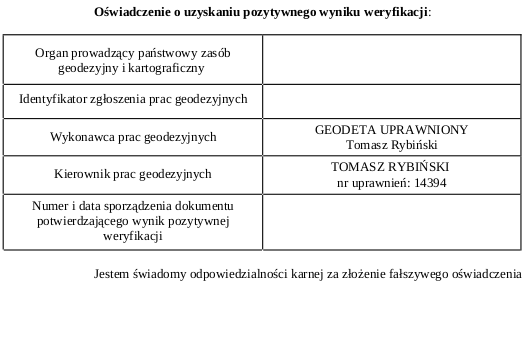
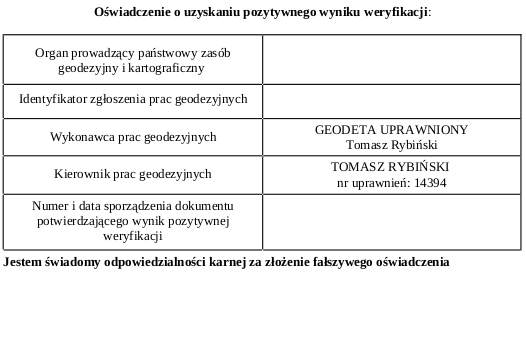
Update 5.1

Changed region(s): [[0.0, 0.0865, 1.0, 0.8069], [0.1832, 0.0, 0.8244, 0.0576]]

diff --git a/src/view/InsertIntoPDFView.js b/src/view/InsertIntoPDFView.js
@@ -15,11 +15,11 @@ function InsertIntoPDFView() {
 
   const [organProwadzacy, setOrganProwadzacy] = useState(false);
 
-  const [date, setDate] = useState(new Date());
+  // const [date, setDate] = useState(new Date());
   const [dateSporządzenia, setDateSporządzenia] = useState(new Date());
 
-  const [numberTarcza, setNumberTarcza] = useState("Gd.III.6642.2.1"); // GKN-I.
-  const [number, setNumber] = useState("Gd.III.6642.2.2"); // P.1425.2020.
+  const [numberTarcza, setNumberTarcza] = useState("Gd.III.6642.2."); // GKN-I.
+  const [number, setNumber] = useState("Gd.III.6642.2."); // P.1425.2020.
 
   const [scale, setScale] = useState(0.5);
   const [showFile, setShowFile] = useState(false);
@@ -36,9 +36,11 @@ function InsertIntoPDFView() {
 
 
   useEffect(() => {
-    isTarczaView ? prepareRamkaTarcza4() : prepareRamka();
+    // isTarczaView ? prepareRamkaTarcza4() : prepareRamka();
+    prepareRamkaTarcza4();
+
     fileContent && modifyPdf();
-  }, [number,numberTarcza, date, dateSporządzenia, deegrees, isTarczaView, organProwadzacy]);
+  }, [number,numberTarcza, dateSporządzenia, deegrees, isTarczaView, organProwadzacy]);
 
   useEffect(() => {
     fileContent && modifyPdf();
@@ -59,51 +61,51 @@ function InsertIntoPDFView() {
     console.log(fileReader, fileReader.result, fileContent);
   };
 
-  const prepareRamka = async () => {
-    const pngImageBytes = await fetch(ramka).then((res) => res.arrayBuffer());
+  // const prepareRamka = async () => {
+  //   const pngImageBytes = await fetch(ramka).then((res) => res.arrayBuffer());
 
-    const imgpdf = await PDFDocument.create();
-    const pngImage = await imgpdf.embedPng(pngImageBytes);
-    imgpdf.addPage([pngImage.width, pngImage.height]);
+  //   const imgpdf = await PDFDocument.create();
+  //   const pngImage = await imgpdf.embedPng(pngImageBytes);
+  //   imgpdf.addPage([pngImage.width, pngImage.height]);
 
-    const pngDims = pngImage.scale(1); // wielkosc ramki
-    const helveticaFont = await imgpdf.embedFont(StandardFonts.HelveticaBold);
+  //   const pngDims = pngImage.scale(1); // wielkosc ramki
+  //   const helveticaFont = await imgpdf.embedFont(StandardFonts.HelveticaBold);
 
-    const pages = imgpdf.getPages();
-    const firstPage = pages[0];
+  //   const pages = imgpdf.getPages();
+  //   const firstPage = pages[0];
 
-    firstPage.drawImage(pngImage, {
-      x: 0,
-      y: 0,
-      width: pngDims.width,
-      height: pngDims.height,
-    });
+  //   firstPage.drawImage(pngImage, {
+  //     x: 0,
+  //     y: 0,
+  //     width: pngDims.width,
+  //     height: pngDims.height,
+  //   });
 
-    // data
-    firstPage.drawText(date.toLocaleDateString(), {
-      x: 200,
-      y: 100,
-      size: 10,
-      font: helveticaFont,
-      color: rgb(0.95, 0.1, 0.1),
-    });
+  //   // data
+  //   firstPage.drawText(date.toLocaleDateString(), {
+  //     x: 200,
+  //     y: 100,
+  //     size: 10,
+  //     font: helveticaFont,
+  //     color: rgb(0.95, 0.1, 0.1),
+  //   });
 
-    //numerek
-    firstPage.drawText(number, {
-      x: 200,
-      y: 125,
-      size: 12,
-      font: helveticaFont,
-      color: rgb(0.95, 0.1, 0.1),
-    });
+  //   //numerek
+  //   firstPage.drawText(number, {
+  //     x: 200,
+  //     y: 125,
+  //     size: 12,
+  //     font: helveticaFont,
+  //     color: rgb(0.95, 0.1, 0.1),
+  //   });
 
-    firstPage.setRotation(degrees(deegrees))
+  //   firstPage.setRotation(degrees(deegrees))
 
 
-    let ramkaBytes = await imgpdf.save();
-    setRamkaBytes(ramkaBytes);
-    return imgpdf;
-  };
+  //   let ramkaBytes = await imgpdf.save();
+  //   setRamkaBytes(ramkaBytes);
+  //   return imgpdf;
+  // };
 
   const prepareRamkaTarcza4 = async () => {
     const pngImageBytes = await fetch(ramkaTarczaZMiastem).then((res) => res.arrayBuffer());
@@ -128,7 +130,7 @@ function InsertIntoPDFView() {
     // organ prowadzacy oanstwowy zasob
     firstPage.drawText(`${organProwadzacy ? 'STAROSTA RADOMSKI' : 'PREZYDENT MIASTA RADOMIA'}`, {
       x: organProwadzacy ? 310 : 270,
-      y: 290,
+      y: 283,
       size: 16,
       font: helveticaFont,
       color: rgb(0.2, 0.2, 0.2),
@@ -137,7 +139,7 @@ function InsertIntoPDFView() {
     // indetyfikator zgłoszenia prac geodezyjnych
     firstPage.drawText(numberTarcza, {
       x: 305,
-      y: 250,
+      y: 240,
       size: 16,
       font: helveticaFont,
       color: rgb(0.2, 0.2, 0.2),
@@ -146,14 +148,14 @@ function InsertIntoPDFView() {
     // numer i data sporzadzenia dokumentu potwierdzajacego...
     firstPage.drawText(number, {
       x: 305,
-      y: 140,
+      y: 130,
       size: 16,
       font: helveticaFont,
       color: rgb(0.2, 0.2, 0.2),
     });
     firstPage.drawText(`z dn. ${dateSporządzenia.toLocaleDateString()}`, {
       x: 330,
-      y: 120,
+      y: 110,
       size: 16,
       font: helveticaFont,
       color: rgb(0.2, 0.2, 0.2),
@@ -162,7 +164,7 @@ function InsertIntoPDFView() {
 
     // data przy podpisie
     firstPage.drawText(`Radom, dnia ${dateSporządzenia.toLocaleDateString()}r.`, {
-      x: 385,
+      x: 5,
       y: 10,
       size: 12,
       font: helveticaFont,
@@ -180,7 +182,8 @@ function InsertIntoPDFView() {
   };
 
   async function modifyPdf() {
-    let imgpdf = isTarczaView ? await prepareRamkaTarcza4() : await prepareRamka();
+    // let imgpdf = isTarczaView ? await prepareRamkaTarcza4() : await prepareRamka();
+    let imgpdf = await prepareRamkaTarcza4();
 
     const pdfDocContent = await PDFDocument.load(fileContent);
 
@@ -219,30 +222,31 @@ function InsertIntoPDFView() {
     setShowFile(true);
   }
 
-  const handleDateChange = (value) => {
-    let newDate = new Date(value);
-    setDate(newDate);
-  };
+  // const handleDateChange = (value) => {
+  //   let newDate = new Date(value);
+  //   setDate(newDate);
+  // };
 
   const handleDateSporządzeniaChange = (value) => {
     let newDate = new Date(value);
     setDateSporządzenia(newDate);
   };
 
-  const handleViewChange = () => {
-    isTarczaView ? prepareRamka() : prepareRamkaTarcza4();
-    setTarczView(!isTarczaView);
+  // const handleViewChange = () => {
+  //   prepareRamka();
+  //   // isTarczaView ? prepareRamka() : prepareRamkaTarcza4();
+  //   setTarczView(!isTarczaView);
 
-  }
+  // }
 
   const handleOrganChange= (value) => {
     if(value) {
       setOrganProwadzacy(true);
-      setNumber('P.1425.2020');
-      setNumberTarcza('GKN-I.');
+      setNumber('GKN-I.6042.1.');
+      setNumberTarcza('GKN-I.6042.1.');
     } else {
       setOrganProwadzacy(false);
-      setNumber('P.1463.2020');
+      setNumber('Gd.III.6642.2.');
       setNumberTarcza('Gd.III.6642.2.');
     }
   }
@@ -297,9 +301,9 @@ function InsertIntoPDFView() {
           <div>
               <button onClick={() => deegrees < 360 ? setDeegrees(deegrees + 90) : setDeegrees(90)}>Rotacja</button>
             </div>
-            <div>
+            {/* <div>
               <button onClick={() => handleViewChange()}>Zmień ramkę</button>
-            </div>
+            </div> */}
             
             <input type="radio" 
             id="miasto" 
@@ -332,7 +336,7 @@ function InsertIntoPDFView() {
               />
             </div>
 
-            <div>
+            {/* <div>
               <label>data: </label>
               <input
                 type="date"
@@ -341,7 +345,7 @@ function InsertIntoPDFView() {
                   handleDateChange(event.target.value.toString());
                 }}
               />
-            </div>
+            </div> */}
             {isTarczaView &&
             <div>
               <label>data sporządzenia: </label>
